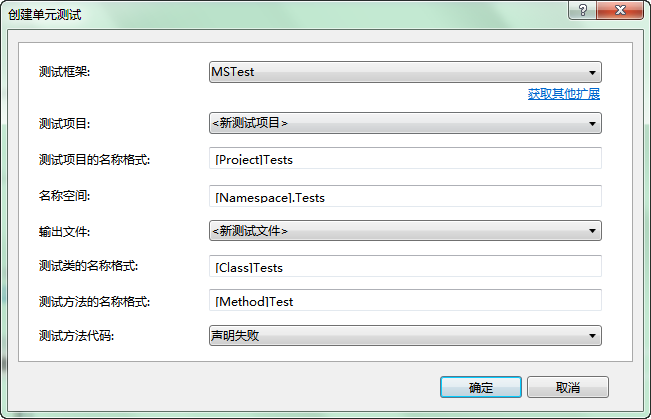
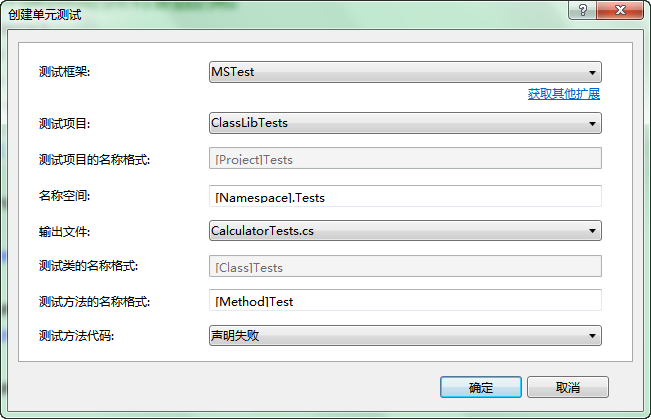
2020年1月20日 23:57:51- Update：修改README.md

diff --git a/README.md b/README.md
@@ -1,6 +1,20 @@
-## 使用MSTest框架对 .NET程序单元测试（入门级）
+## 使用MSTest框架对 .NET程序单元测试（入门级） {ignore=true}
 
-[TOC]
+
+<!-- @import "[TOC]" {cmd="toc" depthFrom=1 depthTo=6 orderedList=false} -->
+
+<!-- code_chunk_output -->
+目录
+- [1.单元测试概念](#1单元测试概念)
+- [2.单元测试的原则](#2单元测试的原则)
+- [3.单元测试实例](#3单元测试实例)
+  - [3.1一个简单的手写单元测试实例](#31一个简单的手写单元测试实例)
+  - [3.2使用VS中自带的单元测试框架MSTest](#32使用vs中自带的单元测试框架mstest)
+  - [3.3单元测试中的断言Assert](#33单元测试中的断言assert)
+- [参考](#参考)
+
+<!-- /code_chunk_output -->
+
 
 ### 1.单元测试概念
 
@@ -139,26 +153,39 @@ public static void CalculatorDoubleValueTest()
 
 新建项目--->选择测试类项目中的单元测试项目，命名为"被测试项目名+Tests"
 
-测试函数的命名按照被"测试函数名+Test"格式命名
+测试类的命名为“被测试的类+Tests”
 
-当然在VS中也可以在想要测试的函数上右键，创建单元测试，弹出如下窗口，直接点击确定即可
+测试函数的命名按照被"**[被测方法]_ [测试场景]_[预期行为]**"格式命名
+  * 方法名——被测试的方法
+  * 测试场景——能产生预期行为的条件
+  * 预期行为——在给定条件下，期望被测试方法产生什么结果
+
+当然在VS中也可以在想要测试的函数上右键，创建单元测试，弹出如下窗口，直接点击确定即可,即可生成默认的单元测试代码模版。
+
+但是《.NET单元测试艺术》中对测试函数的命名格式推荐为：
+
+
 
 ![新建单元测试](新建单元测试.png)
 
-这里先使用默认自带的MSTest框架，使用默认的命名格式，会自动生成相应的测试项目和测试函数格式，
-编写如下：
+这里先使用默认自带的MSTest框架，使用默认的命名格式，会自动生成相应的测试项目和测试函数格式。
 
-**编写单元测试的代码，一般按照Arrange-->TestCase-->Act-->Assert四部编写**
+编写单元测试的代码，一般按照以下四步编写:
+**Arrange:配置测试对象**
+**TestCase:准备测试案例**
+**Act:操作测试对象**
+**Assert:对操作断言**
+
 
 ```cs
 //注意 [TestClass]和[TestClass()]，[TestMethod()]和[TestMethod]写法等价
 namespace ClassLib.Tests
 {
-    [TestClass()]
+    [TestClass()]//通过标注该特性标签表明该类为测试类
     public class CalculatorTests
     {
-        [TestMethod()]
-        public void DoubleValueTest1()
+        [TestMethod()]//通过标注该特性标签表明该函数为测试函数
+        public void DoubleValueTest_DoubleValue_ReturnTrue()
         {
             //Arrange:准备，实例化一个带测试的类
             Calculator obj = new Calculator();
@@ -181,11 +208,15 @@ namespace ClassLib.Tests
 
 ![运行](运行.gif)
 
-注意：我是使用的不是VS Enterprise版本故无法直接查看代码的测试覆盖率，可以使用插件OpenCover或NCover等工具
+上面运行显示测试通过显示的是绿色的标志，若是测试不通过则会则显示红色标志，在单元测试中有一种“红绿灯”的概念（你是使用其他的单元测试框架也是同样的红绿标志）。
+
+在测试驱动开发的流程中，就是“红灯-->修改-->绿灯-->重构-->绿灯”的开发流程。
+
+注意：我是使用的不是VS Enterprise版本故无法直接查看代码的测试覆盖率，可以使用插件OpenCover或NCover等其他工具查看单元测试的覆盖率。
 
 上面只是演示了怎么进行一次单元测试，但是实际中我们的测试案例不能仅仅一个，所以要添加多个测试，以提高到测试的完备性
 
-对需要大量测试案例的，可以把测试数据存放在专门的用于测试使用的数据库中，在测试时通过连接数据库，使用数据库中的数据进行测试
+若是对需要大量测试案例的，可以把测试数据存放在专门的用于测试使用的数据库中，在测试时通过连接数据库，使用数据库中的数据进行测试
 
 依旧是上面的示例，把大量的测试案例存放在数据库
 
@@ -208,7 +239,7 @@ Id                   Input       Expected
             @"server=.;database=db_Tome1;uid=sa;pwd=shanzm",//数据库连接字符串
             "szmUnitTestDemo",//测试数据存放的表
             DataAccessMethod.Sequential)]//对表中的数据测试的顺序，可以是顺序的，也可以是随机的，这里是我们选择顺序
-public void DoubleValueTest2()
+public void DoubleValueTest_DoubleValue_ReturnTrue()
 {
     //Arrange
     Calculator target = neCalculator();
@@ -221,6 +252,51 @@ public void DoubleValueTest2()
     Assert.AreEqual(expected, actual);
 }
 ```
+说明：
+1. 特性标签[TestClass] [TestMethod]
 
-#### 3.3单元测试中的断言使用
+   MSTest框架通过标签识别并加载测试
 
+   [TestClass]用来标识包含一个MSTest自动好测试的类，
+
+   [TestMethod]用来标识需要被调用的自动化测试的方法
+
+2. 特性标签[DataSource]标识用来测试的数据源，其的参数如下：
+
+   * 第一个参数是providername，即使用的数据源的命名空间，其实我们也是可是使用Excel表格的（菜单“项目”-->添加新的数据源……）参考：[CSDN:vs2015数据驱动的单元测试](https://blog.csdn.net/site008/article/details/77070945)
+
+     providername值参考：
+
+     * "system.data.sqlclient" ----说明使用的是mssqlserver数据库
+
+     * "system.data.sqllite" ----说明使用的是sqllite数据库
+
+     * "system.data.oracleclient" ----说明使用的是oracle数据库或
+
+     * "mysql.data.mysqlclient" ----说明使用的是mysql数据库
+
+    * 第二个参数是connectionString，我习惯是这样写：
+
+      `@"server=.;database=数据库;uid=用户ID;pwd=密码"`
+
+      但是推荐这样写：
+    
+      `@"Data Source=localhost;Initial Catalog=数据库;User ID=用户ID;Password=密码"`
+
+   * 3.第三个参数是tablename,选择使用的数据库中的哪张表
+
+   * 4.对表中的数据测试的顺序.
+   可以是顺序的：`DataAccessMethod.Sequential`，
+   可以是随机的:`DataAccessMethod.Random`。
+
+#### 3.3单元测试中的断言Assert
+
+1. `Assert.AreEqual(expectedObject,actualObject,message);`
+
+2. `Assert.Fail();`
+
+### 参考
+
+[书籍：.NET 单元测试的艺术]()
+[书籍：单元测试之道C#版](https://pan.baidu.com/s/11VuVW)
+[微软：dotnet文档](https://docs.microsoft.com/zh-cn/dotnet/core/testing/unit-testing-with-mstest)
